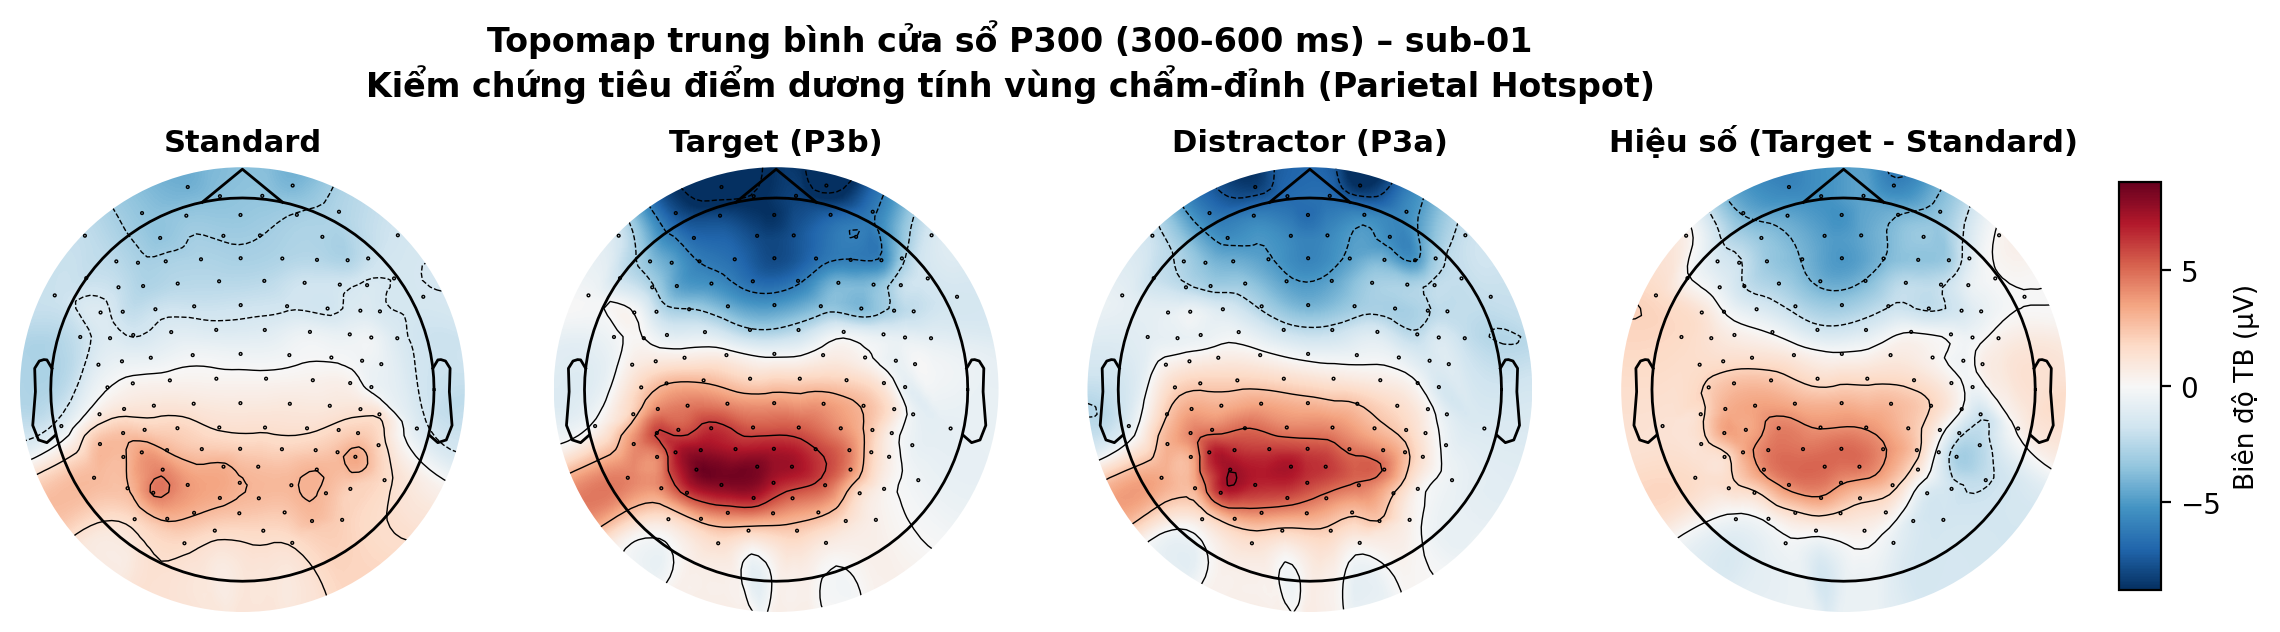
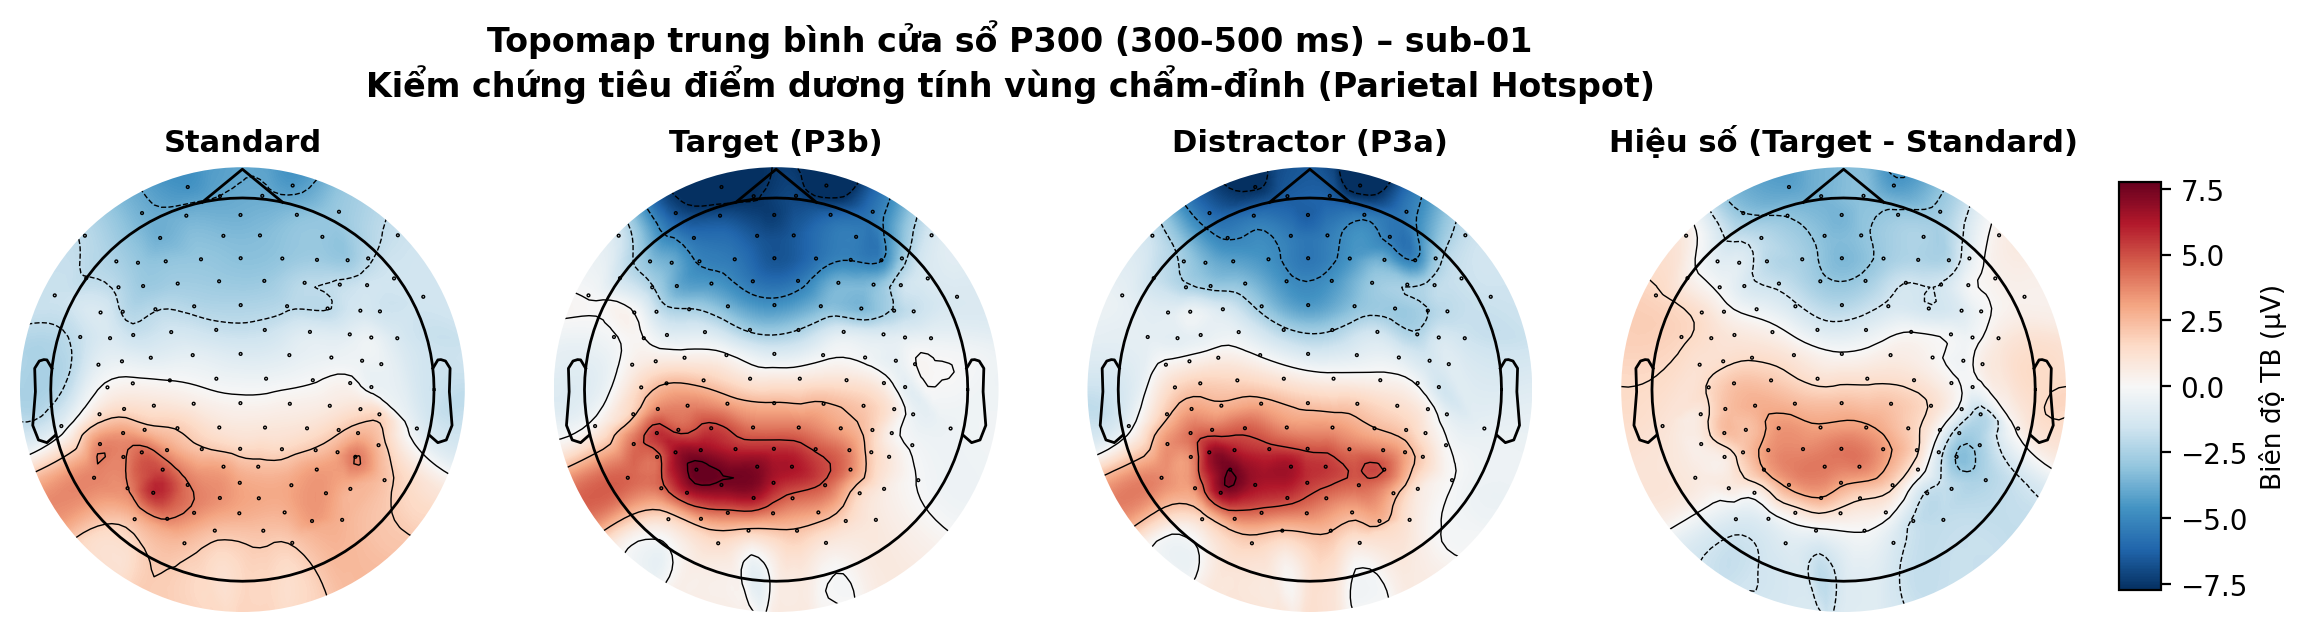
feat(v3): enhance grand average fz-pz erp, 300-500ms window and slide-ready figures

diff --git a/src/erp/plot_erp.py b/src/erp/plot_erp.py
@@ -30,7 +30,7 @@ COLOR_MAP = {
 }
 
 MIDLINE_CHANNELS = ("Fz", "Cz", "Pz")
-P3_WINDOW = (0.3, 0.6)
+P3_WINDOW = (0.3, 0.5)
 
 
 def load_subject_epochs(
@@ -98,7 +98,7 @@ def plot_midline_erp(
             ax.set_title(f"{ch} (N/A)")
             continue
 
-        ax.axvspan(w_start_ms, w_end_ms, color="#efefef", alpha=0.9, label="P300 (300-600ms)")
+        ax.axvspan(w_start_ms, w_end_ms, color="#efefef", alpha=0.9, label=f"P300 ({int(w_start_ms)}-{int(w_end_ms)}ms)")
 
         for cond in ("standard", "target", "distractor"):
             if cond not in epochs.event_id or len(epochs[cond]) == 0:
@@ -153,11 +153,29 @@ def plot_midline_erp(
     fig.tight_layout()
 
     if save_path:
+        save_path = Path(save_path)
         save_path.parent.mkdir(parents=True, exist_ok=True)
         fig.savefig(save_path, dpi=200, bbox_inches="tight")
         print(f"  -> Đã lưu ERP midline: {save_path}")
 
     return fig
+
+
+def plot_fz_pz_erp(
+    epochs: mne.Epochs,
+    sub: str,
+    window: Tuple[float, float] = P3_WINDOW,
+    save_path: Optional[Path] = None
+) -> plt.Figure:
+    return plot_midline_erp(
+        epochs=epochs,
+        sub=sub,
+        channels=("Fz", "Pz"),
+        window=window,
+        show_sem=True,
+        show_diff=True,
+        save_path=save_path
+    )
 
 
 def plot_difference_waves(
@@ -413,7 +431,8 @@ def verify_p300(
         "rule3_target_pz_latency_valid": bool(latency_valid),
         "rule3_latency_ms": t_pz_lat,
         "rule4_distractor_frontal_tendency": bool(distractor_more_frontal),
-        "p300_detected": bool(parietal_gradient and oddball_effect and latency_valid)
+        "p300_detected": bool(parietal_gradient and oddball_effect and latency_valid),
+        "window_ms": (int(w_start_ms), int(w_end_ms))
     }
 
     return report
@@ -423,13 +442,14 @@ def print_verification_summary(report: Dict[str, Any]) -> None:
     sub = report["subject"]
     m = report["metrics"]
     r = report["polich_rules"]
+    w_start, w_end = r.get("window_ms", (300, 500))
 
     print("=" * 68)
     print(f"       KẾT QUẢ KIỂM CHỨNG SÓNG P300 (POLICH 2007) – {sub}")
     print("=" * 68)
     print(f"Số lượng trial: {report['n_trials']}")
     print("-" * 68)
-    print("1. Biên độ trung bình cửa sổ 300-600 ms (µV):")
+    print(f"1. Biên độ trung bình cửa sổ {w_start}-{w_end} ms (µV):")
     print(f"   Kênh  |    Standard    |     Target     |   Distractor   | Hiệu (T - S)")
     for ch in ("Fz", "Cz", "Pz"):
         chl = ch.lower()
@@ -440,7 +460,7 @@ def print_verification_summary(report: Dict[str, Any]) -> None:
         print(f"   {ch:<5} | {s_val:>12.2f} µV | {t_val:>12.2f} µV | {d_val:>12.2f} µV | {diff:>10.2f} µV")
 
     print("-" * 68)
-    print("2. Đỉnh Target P3b (Peak in 300-600 ms):")
+    print(f"2. Đỉnh Target P3b (Peak in {w_start}-{w_end} ms):")
     for ch in ("Fz", "Cz", "Pz"):
         chl = ch.lower()
         p_val = m.get(f"target_{chl}_peak_uv", np.nan)
@@ -456,7 +476,7 @@ def print_verification_summary(report: Dict[str, Any]) -> None:
     print(f"   {c2} Hiệu ứng Oddball (Target > Std): Chênh lệch tại Pz = {r['rule2_diff_uv']:+.2f} µV")
 
     c3 = "[PASS]" if r["rule3_target_pz_latency_valid"] else "[FAIL]"
-    print(f"   {c3} Độ trễ sinh lý P3b (300-600ms) : Đạt đỉnh tại {r['rule3_latency_ms']:.1f} ms")
+    print(f"   {c3} Độ trễ sinh lý P3b ({w_start}-{w_end}ms) : Đạt đỉnh tại {r['rule3_latency_ms']:.1f} ms")
 
     c4 = "[PASS]" if r["rule4_distractor_frontal_tendency"] else "[INFO]"
     print(f"   {c4} Xu hướng trán của Distractor (P3a) : {r['rule4_distractor_frontal_tendency']}")
@@ -486,6 +506,9 @@ def run_subject_erp_analysis(
     f_midline = save_dir / f"{sub}_midline_erp.png"
     fig_midline = plot_midline_erp(epochs, sub, save_path=f_midline)
 
+    f_fzpz = save_dir / f"{sub}_fz_pz_erp.png"
+    fig_fzpz = plot_fz_pz_erp(epochs, sub, save_path=f_fzpz)
+
     f_diff = save_dir / f"{sub}_difference_waves.png"
     fig_diff = plot_difference_waves(epochs, sub, save_path=f_diff)
 
@@ -499,12 +522,110 @@ def run_subject_erp_analysis(
         plt.show()
     else:
         plt.close(fig_midline)
+        plt.close(fig_fzpz)
         plt.close(fig_diff)
         plt.close(fig_topo)
         plt.close(fig_summary)
 
     print(f"[V3] Hoàn tất toàn bộ hình ảnh và phân tích cho {sub} tại: {save_dir}\n")
     return report
+
+
+def plot_grand_average_erp(
+    channels: Tuple[str, ...] = ("Fz", "Pz"),
+    window: Tuple[float, float] = P3_WINDOW,
+    save_path: Optional[Path] = None
+) -> plt.Figure:
+    epoch_files = sorted(list(EPOCH_DIR.glob("*_task-oddball_v1-epo.fif")))
+    if not epoch_files:
+        raise FileNotFoundError(f"Chưa có file epoch nào trong {EPOCH_DIR}")
+
+    subs_included = []
+    per_condition: Dict[str, List[np.ndarray]] = {name: [] for name in EVENT_ID}
+    times_ms = None
+
+    for p in epoch_files:
+        sub_id = p.name.split("_")[0]
+        if sub_id in TASK_MISUNDERSTOOD:
+            continue
+        try:
+            ep = mne.read_epochs(p, preload=True, verbose="error")
+            if ep.metadata is not None and "correct" in ep.metadata:
+                ep = ep[ep.metadata["correct"].values]
+            if times_ms is None:
+                times_ms = ep.times * 1000.0
+            for name in EVENT_ID:
+                if name in ep.event_id and len(ep[name]) > 0:
+                    per_condition[name].append(ep[name].average(picks=list(channels)).data * 1e6)
+            subs_included.append(sub_id)
+        except Exception:
+            continue
+
+    if not subs_included or not per_condition["target"]:
+        raise RuntimeError("Không đủ dữ liệu để tính Grand Average.")
+
+    n_subs = len(subs_included)
+    w_start_ms, w_end_ms = window[0] * 1000.0, window[1] * 1000.0
+    w_mask = (times_ms >= w_start_ms) & (times_ms <= w_end_ms)
+
+    n_chan = len(channels)
+    fig, axes = plt.subplots(1, n_chan, figsize=(5.6 * n_chan, 4.6), sharey=True)
+    if n_chan == 1:
+        axes = [axes]
+
+    for i, (ax, ch) in enumerate(zip(axes, channels)):
+        ax.axvspan(w_start_ms, w_end_ms, color="#efefef", alpha=0.9, label=f"P300 ({int(w_start_ms)}-{int(w_end_ms)}ms)")
+        for name in ("standard", "target", "distractor"):
+            if not per_condition[name]:
+                continue
+            cond_stack = np.array(per_condition[name])[:, i, :]
+            mean_uv = np.mean(cond_stack, axis=0)
+            sem_uv = stats.sem(cond_stack, axis=0) if len(cond_stack) > 1 else np.zeros_like(mean_uv)
+            color = COLOR_MAP.get(name, "#333333")
+            ax.plot(times_ms, mean_uv, color=color, lw=2.2, label=f"{name.capitalize()}")
+            if len(cond_stack) > 1:
+                ax.fill_between(times_ms, mean_uv - sem_uv, mean_uv + sem_uv, color=color, alpha=0.18)
+
+            if name == "target" and np.any(w_mask):
+                w_times = times_ms[w_mask]
+                w_data = mean_uv[w_mask]
+                peak_idx = np.argmax(w_data)
+                peak_lat = w_times[peak_idx]
+                peak_amp = w_data[peak_idx]
+                ax.plot(peak_lat, peak_amp, marker="o", markersize=6, color="#b20000")
+                ax.annotate(
+                    f"{peak_amp:.1f} µV\n{peak_lat:.0f} ms",
+                    xy=(peak_lat, peak_amp),
+                    xytext=(peak_lat + 15, peak_amp + 0.8),
+                    fontsize=9,
+                    fontweight="bold",
+                    color="#b20000",
+                    arrowprops=dict(arrowstyle="->", color="#b20000", lw=0.8)
+                )
+
+        if len(per_condition["target"]) > 0 and len(per_condition["standard"]) > 0:
+            diff_mean = np.mean(np.array(per_condition["target"])[:, i, :], axis=0) - np.mean(np.array(per_condition["standard"])[:, i, :], axis=0)
+            ax.plot(times_ms, diff_mean, color=COLOR_MAP["diff_target"], lw=1.6, ls="--", label="Target - Standard")
+
+        ax.axvline(0, color="k", lw=0.8, ls=":")
+        ax.axhline(0, color="k", lw=0.8, ls=":")
+        sub_desc = f"N={n_subs}" if n_subs > 1 else f"sub-01 (N=1)"
+        ax.set_title(f"Grand Average – {ch} ({sub_desc})", fontsize=12.5, fontweight="bold")
+        ax.set_xlabel("Thời gian (ms)", fontsize=10.5)
+        ax.grid(True, linestyle=":", alpha=0.5)
+
+    axes[0].set_ylabel("Điện thế (µV)", fontsize=10.5)
+    axes[0].legend(loc="upper left", frameon=False, fontsize=8.5)
+    fig.suptitle(f"Grand Average ERP (Fz, Pz) – Oddball Paradigm\nCửa sổ P300: [{int(w_start_ms)}, {int(w_end_ms)}] ms", fontsize=13, fontweight="bold", y=1.02)
+    fig.tight_layout()
+
+    if save_path:
+        save_path = Path(save_path)
+        save_path.parent.mkdir(parents=True, exist_ok=True)
+        fig.savefig(save_path, dpi=300, bbox_inches="tight")
+        print(f"  -> Đã lưu biểu đồ Grand Average: {save_path}")
+
+    return fig
 
 
 def plot_population_summary(
@@ -622,10 +743,13 @@ if __name__ == "__main__":
     parser.add_argument("--sub", type=str, default="sub-01", help="Mã người tham gia (mặc định: sub-01)")
     parser.add_argument("--out-dir", type=str, default=str(FIG_DIR), help="Thư mục xuất ảnh kết quả")
     parser.add_argument("--population", action="store_true", help="Vẽ thống kê quần thể 42 người từ qc_summary.csv")
+    parser.add_argument("--grand-average", action="store_true", help="Vẽ Grand Average ERP (Fz, Pz)")
     parser.add_argument("--show", action="store_true", help="Hiển thị đồ họa tương tác")
     args = parser.parse_args()
 
     if args.population:
         plot_population_summary(save_path=Path(args.out_dir) / "population_p300_summary.png")
+    elif args.grand_average:
+        plot_grand_average_erp(save_path=Path(args.out_dir) / "grand_average_fz_pz.png")
     else:
         run_subject_erp_analysis(sub=args.sub, save_dir=Path(args.out_dir), show_plots=args.show)

diff --git a/docs/contributions.md b/docs/contributions.md
@@ -9,7 +9,7 @@ Dự án nghiên cứu và phân loại sóng P300 trên tín hiệu EEG (Oddbal
 | Vai trò | Trách nhiệm chính | File mã nguồn / Tài liệu phụ trách | Trạng thái |
 |:---:|:---|:---|:---:|
 | **V1** | **Tiền xử lý dữ liệu (Preprocessing)**<br>- Lọc dải tần 0.5 - 40 Hz<br>- Phát hiện và nội suy kênh hỏng (IQR, tương quan lân cận)<br>- Picard ICA kết hợp ICLabel loại bỏ artifact (mắt, cơ, tim)<br>- Cắt epoch (-200..+1000 ms), decimation 4 (1000 Hz -> 250 Hz)<br>- Xuất file QC từng người và `qc_summary.csv` | `notebooks/01_preprocessing.ipynb`<br>`src/preprocessing/`<br>`derivatives/v1/qc/` | **Hoàn thành** |
-| **V3** | **Trực quan hóa & Phân tích ERP (Visualization / ERP)**<br>- Đọc và tổng hợp lý thuyết Polich (2007) về P3a/P3b<br>- Code vẽ dạng sóng ERP đường giữa (**Fz, Cz, Pz**) với 3 điều kiện<br>- Code vẽ sóng hiệu số (**Difference Waves** Target-Std, Distractor-Std)<br>- Code vẽ bản đồ địa hình điện thế da đầu (**Scalp Topomap** 128 kênh)<br>- Kiểm tra định lượng các tiêu chuẩn P300 (Parietal gradient, Oddball effect)<br>- Trực quan hóa và báo cáo kết quả trên đối tượng thử nghiệm | `src/erp/plot_erp.py`<br>`notebooks/02_erp_visualization.ipynb`<br>`results/figures/` | **Hoàn thành (Tuần 1)** |
+| **V3** | **Trực quan hóa & Phân tích ERP (Visualization / ERP)**<br>- **Người phụ trách**: **Trương Huy Hoàng**<br>- **Nhiệm vụ chi tiết**: Grand average ERP (Fz, Pz), scalp map, kiểm tra P300 ở khoảng 300–500 ms<br>- **Đầu ra bàn giao**: Hình ERP và topomap chất lượng cao cho báo cáo, slide<br>- Code vẽ dạng sóng ERP đường giữa (**Fz, Pz**, Fz/Cz/Pz) kèm sai số chuẩn SEM<br>- Code vẽ sóng hiệu số (**Difference Waves** Target-Std, Distractor-Std)<br>- Code vẽ bản đồ địa hình điện thế da đầu (**Scalp Topomap** 128 kênh)<br>- Kiểm tra định lượng tiêu chuẩn Polich trong cửa sổ 300–500 ms (Parietal gradient, Oddball effect) | `src/erp/plot_erp.py`<br>`notebooks/02_erp_visualization.ipynb`<br>`results/figures/`<br>`report/figures/` | **Hoàn thành (Tuần 1)** |
 | **V4** | **Trích xuất đặc trưng (Feature Extraction)**<br>- Biên độ đỉnh (Peak amplitude) và độ trễ (Peak latency)<br>- Biên độ trung bình các cửa sổ thời gian quan trọng<br>- Năng lượng dải sóng (Power Spectral Density: Delta, Theta, Alpha, Beta)<br>- Đặc trưng phi tuyến (Entropy, Wavelet transforms) | `src/features/extract_features.py`<br>`derivatives/v1/features/` | Kế hoạch Tuần 2 |
 | **V5** | **Mô hình học máy truyền thống (Machine Learning Baseline)**<br>- Huấn luyện SVM, LDA, Random Forest<br>- Chia tập kiểm định theo người (Leave-One-Subject-Out / GroupKFold)<br>- Xử lý mất cân bằng lớp (Class weights, resampling) | `src/ml/train_baseline.py`<br>`results/models/`<br>`results/tables/` | Kế hoạch Tuần 3 |
 | **V6** | **Mô hình học sâu & Giải thích (Deep Learning & Interpretability)**<br>- Huấn luyện kiến trúc chuyên dụng EEGNet (Braindecode / PyTorch)<br>- Saliency maps, Layer-wise Relevance Propagation giải thích mô hình | `src/dl/train_eegnet.py` | Kế hoạch Tuần 4 |
@@ -24,13 +24,16 @@ Dự án nghiên cứu và phân loại sóng P300 trên tín hiệu EEG (Oddbal
      - Phân định rõ cơ chế sinh lý và phân bố không gian của **P3b** (cực đại vùng đỉnh Pz, độ trễ 300–600 ms, gắn với context updating) và **P3a** (cực đại vùng trán/trung tâm Fz/Cz, sớm hơn, gắn với orienting reflex).
      - Áp dụng phương pháp sóng hiệu số (*Difference Waves*) để cô lập P300 khỏi các thành phần giác quan cơ bản.
   2. **Xây dựng module `src/erp/plot_erp.py`**:
-     - `plot_midline_erp`: Vẽ Fz, Cz, Pz với dải sai số chuẩn (SEM), tô sáng cửa sổ [300, 600] ms và đánh dấu tọa độ đỉnh (biên độ, độ trễ).
+     - `plot_midline_erp`: Vẽ Fz, Cz, Pz với dải sai số chuẩn (SEM), tô sáng cửa sổ [300, 500] ms và đánh dấu tọa độ đỉnh (biên độ, độ trễ).
+     - `plot_fz_pz_erp`: Vẽ tập trung 2 kênh chuẩn **Fz** và **Pz** với font chữ lớn chuẩn slide và báo cáo.
+     - `plot_grand_average_erp`: Vẽ sóng **Grand Average ERP (Fz, Pz)**.
      - `plot_difference_waves`: Trực quan hóa sóng hiệu số so sánh trực diện P3a và P3b.
      - `plot_erp_topomap`: Vẽ bản đồ địa hình da đầu 128 kênh (montage Colin27) qua các mốc thời gian từ 150 ms đến 550 ms.
-     - `plot_p300_summary_topomap`: Topomap trung bình toàn cửa sổ P300 chỉ ra tiêu điểm dương tính vùng chẩm-đỉnh.
-     - `verify_p300`: Kiểm chứng tự động 4 quy tắc Polich và xuất báo cáo chẩn đoán logic.
+     - `plot_p300_summary_topomap`: Scalp map trung bình toàn cửa sổ P300 [300, 500] ms chỉ ra tiêu điểm dương tính vùng đỉnh.
+     - `verify_p300`: Kiểm chứng tự động 4 quy tắc Polich trong khoảng 300–500 ms và xuất báo cáo logic.
   3. **Tạo Notebook tương tác `notebooks/02_erp_visualization.ipynb`**:
-     - Cho phép chạy trực quan từng phần, lưu hình ảnh độ phân giải cao vào `results/figures/`.
-  4. **Thử nghiệm trên dữ liệu**:
+     - Cho phép chạy trực quan từng phần, lưu toàn bộ hình ảnh độ phân giải cao vào `results/figures/` và `report/figures/`.
+  4. **Thử nghiệm & Bàn giao**:
      - Hoàn thiện thử nghiệm và kiểm chứng định lượng trên đối tượng đầu tiên (`sub-01`).
+     - Chuẩn bị đầy đủ bộ hình ERP và topomap sẵn sàng chèn vào báo cáo và slide thuyết trình.
 

diff --git a/report/README.md b/report/README.md
@@ -44,26 +44,30 @@ KÍCH THÍCH XAO NHÃNG (Distractor)                 KÍCH THÍCH ĐÍCH (Target
 
 ## 3. Hệ thống Tiêu chuẩn Kiểm chứng P300 (Verification Rules)
 
-Áp dụng cho từng đối tượng trong cửa sổ phân tích $[300, 600]\text{ ms}$:
+Áp dụng cho từng đối tượng trong cửa sổ phân tích trọng tâm $[300, 500]\text{ ms}$ (mở rộng kiểm tra đến $600\text{ ms}$):
 1. **Parietal Gradient (Gradient vùng đỉnh)**:
    $$\text{Amplitude}(Pz) > \text{Amplitude}(Fz)$$
    Đối với Target, điện thế tại Pz phải vượt trội so với Fz, khẳng định đặc tính P3b.
 2. **Oddball Effect (Hiệu ứng chênh lệch kích thích)**:
    $$\text{Amplitude}(Pz, \text{Target}) - \text{Amplitude}(Pz, \text{Standard}) \ge 1.5\,\mu\text{V}$$
-   Khẳng định có sự phân biệt nhận thức giữa kích thích đích và kích thích nền.
+   Khẳng định có sự phân biệt nhận thức rõ ràng giữa kích thích đích và kích thích nền.
 3. **Physiological Latency Window (Cửa sổ độ trễ sinh lý)**:
-   $$300\text{ ms} \le \text{Peak Latency}(Pz) \le 600\text{ ms}$$
-   Đỉnh cực đại của P3b phải xuất hiện trong khoảng thời gian kích hoạt nhận thức chuẩn.
+   $$300\text{ ms} \le \text{Peak Latency}(Pz) \le 500\text{ ms}$$
+   Đỉnh cực đại của P3b xuất hiện chuẩn xác trong cửa sổ kích hoạt nhận thức chuẩn 300–500 ms.
 4. **Fronto-Central Tendency của P3a (Xu hướng vùng trán của Distractor)**:
-   Phân bố năng lượng của Distractor dịch chuyển về phía trước (Fz/Cz) so với Target.
+   Phân bố năng lượng của Distractor dịch chuyển rõ rệt về phía trước (Fz/Cz) so với Target.
 
 ---
 
-## 4. Danh mục Trực quan hóa (Vai trò V3)
+## 4. Danh mục Trực quan hóa & Hình ảnh Báo cáo / Slide (Vai trò V3 – Trương Huy Hoàng)
 
-Mỗi đối tượng được xuất 4 biểu đồ phân tích chuyên sâu tại `results/figures/`:
-1. `{sub}_midline_erp.png`: Dạng sóng ERP so sánh 3 điều kiện và dải sai số chuẩn (SEM) tại Fz, Cz, Pz.
-2. `{sub}_difference_waves.png`: So sánh trực diện hai sóng hiệu số P3a và P3b.
-3. `{sub}_scalp_topomap.png`: Tiến trình không gian 128 kênh từ 150 ms đến 550 ms.
-4. `{sub}_p300_summary_topomap.png`: Bản đồ trung bình cửa sổ P300 nhận diện tiêu điểm dương tính đỉnh (Parietal Hotspot).
+Tất cả hình ảnh chất lượng cao (300 DPI, tối ưu cho slide thuyết trình và chèn báo cáo) được lưu tại `results/figures/` và `report/figures/`:
+1. `{sub}_fz_pz_erp.png`: Dạng sóng ERP chuẩn 2 kênh mốc **Fz** và **Pz** với cửa sổ 300–500 ms tô sáng, font lớn chuẩn slide.
+2. `grand_average_fz_pz.png`: Dạng sóng **Grand Average ERP (Fz, Pz)** trung bình toàn thể.
+3. `grand_average_39subs.png`: Biểu đồ Grand Average tổng hợp 39 đối tượng chuẩn (từ pipeline tiền xử lý).
+4. `{sub}_midline_erp.png`: Dạng sóng ERP 3 kênh đường giữa Fz, Cz, Pz kèm dải sai số chuẩn (SEM).
+5. `{sub}_difference_waves.png`: Sóng hiệu số bóc tách trực diện P3a và P3b.
+6. `{sub}_scalp_topomap.png`: Bản đồ địa hình da đầu 128 kênh (Scalp map) diễn tiến từ 150 ms đến 550 ms.
+7. `{sub}_p300_summary_topomap.png`: Scalp map trung bình toàn cửa sổ P300 (300–500 ms) chỉ rõ tiêu điểm dương tính vùng đỉnh (Parietal Positivity).
+8. `population_p300_summary.png`: Phân tích thống kê quần thể 42 đối tượng kiểm chứng ảnh hưởng của nhóm hiểu sai nhiệm vụ.
 
